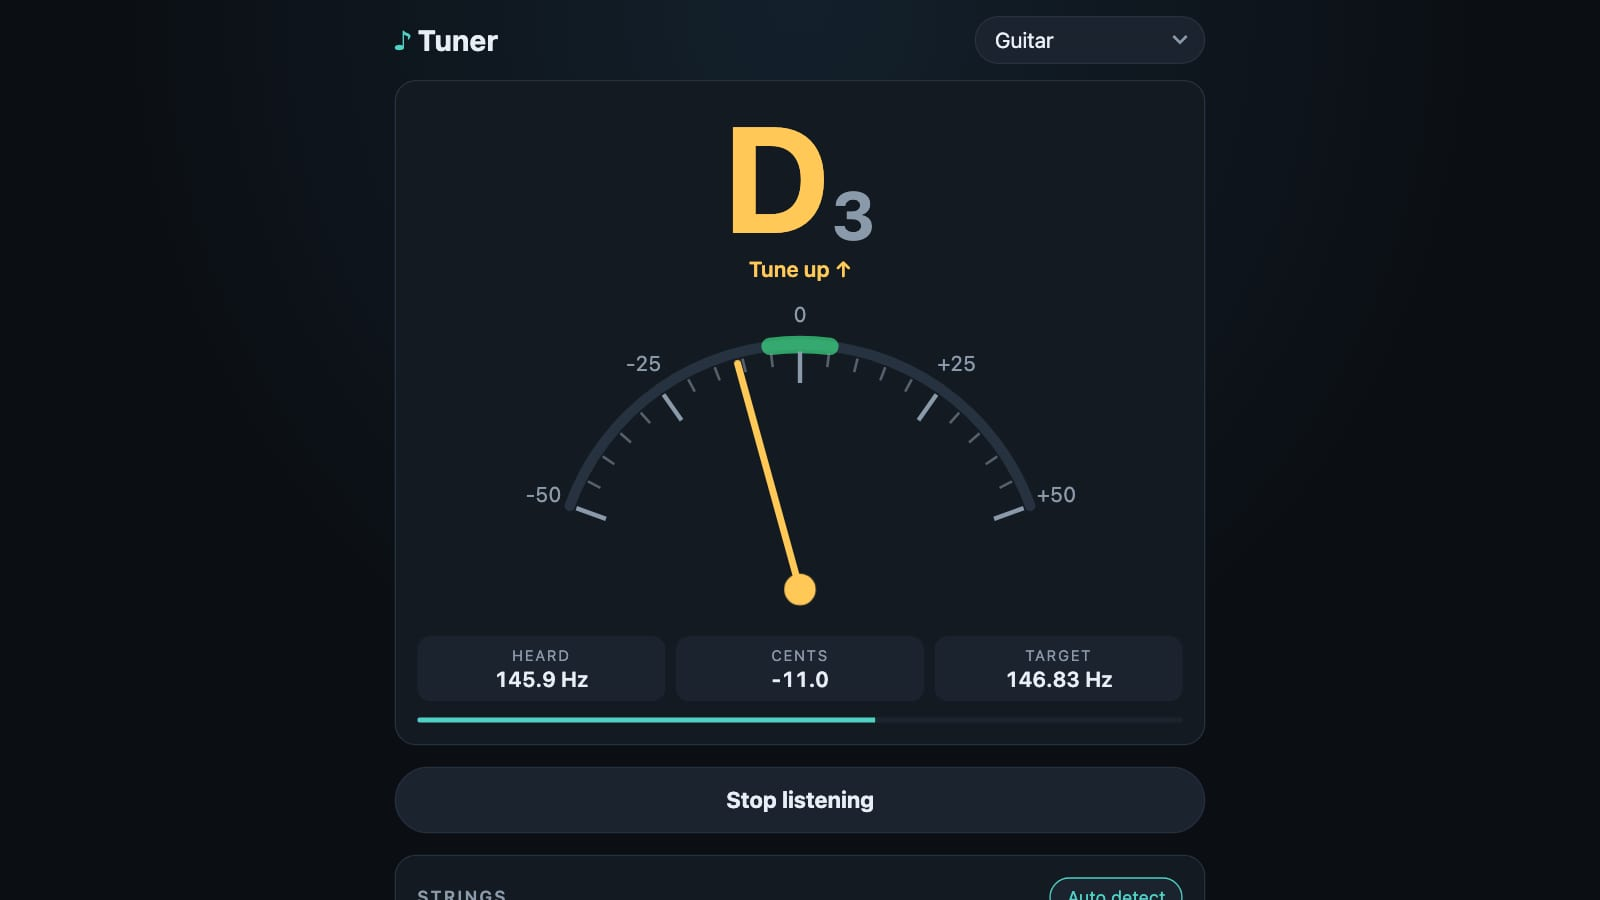
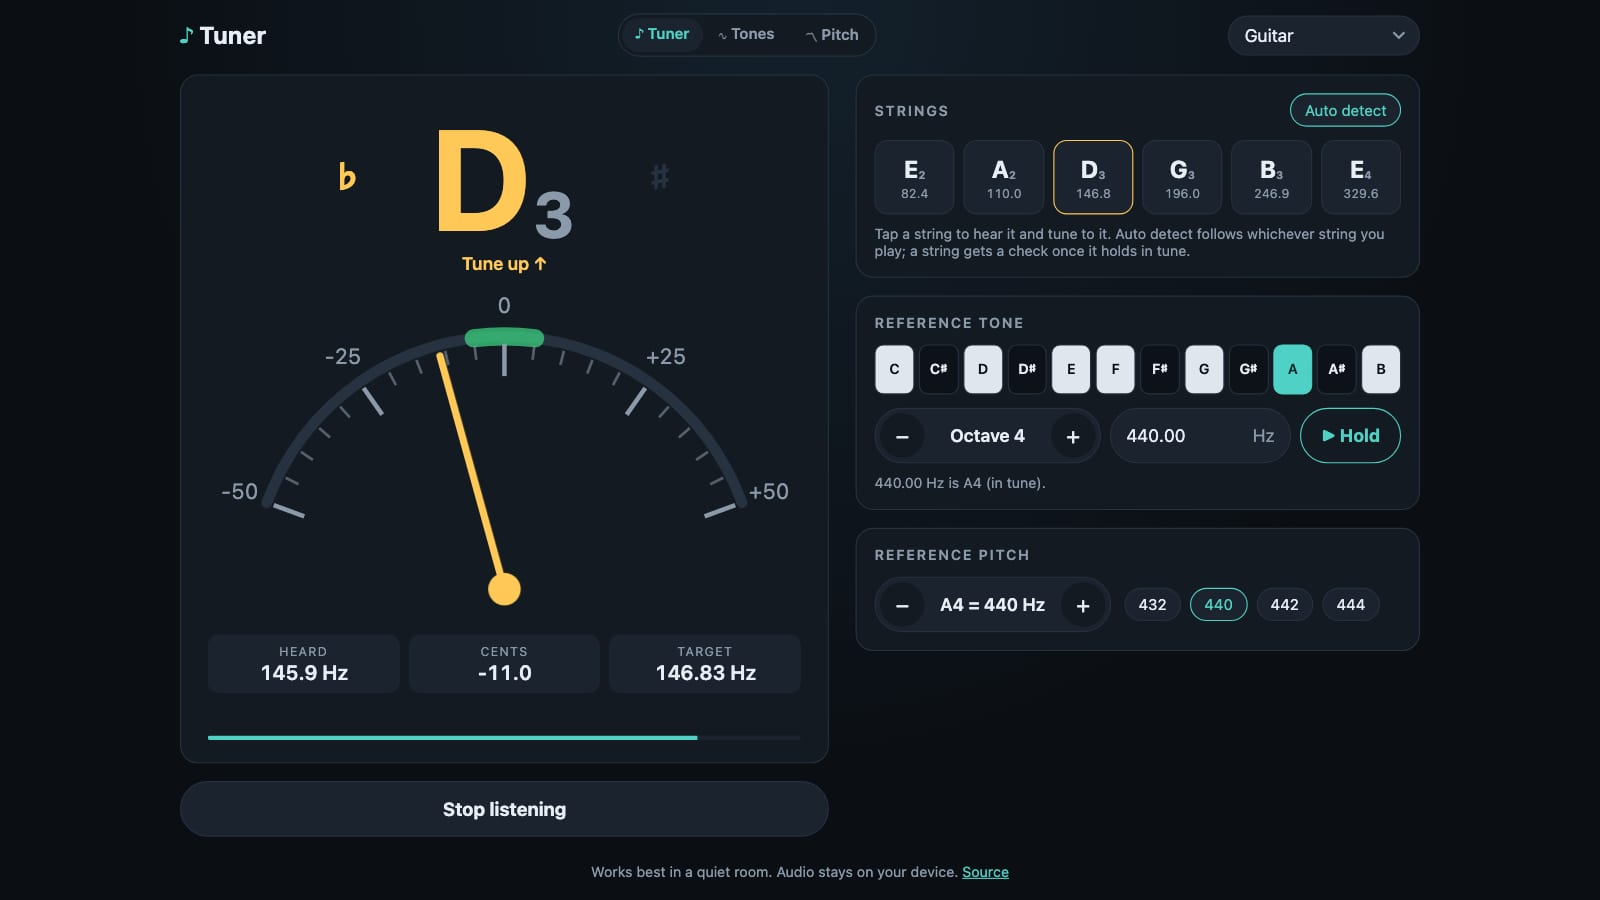
Refresh the music tools' thumbnails for their new layouts
The three apps now use two-column desktop layouts with an app switcher,
so the cards' screenshots showed a look they no longer have.

diff --git a/CHANGELOG.md b/CHANGELOG.md
@@ -16,6 +16,7 @@ The format is based on [Keep a Changelog](https://keepachangelog.com/en/1.1.0/).
 
 ### Changed
 
+- Instrument Tuner, Frequency Player, and Pitch Tracker show their new desktop layouts in their blog thumbnails and link previews, captured November 7, 2026.
 - The LinkedIn and GitHub icons are now each company's own white logo files, unaltered, and they no longer glow on hover.
 - New logo: a rounded "rp" monogram now sits before the name in the header and is the browser-tab icon, and the name is set in the rounder Outfit typeface to match it. On page load the name types out letter by letter behind a mint block cursor, which then keeps blinking.
 - Links between pages now go straight to each post's final address (ending in `/`) instead of passing through a redirect first.
